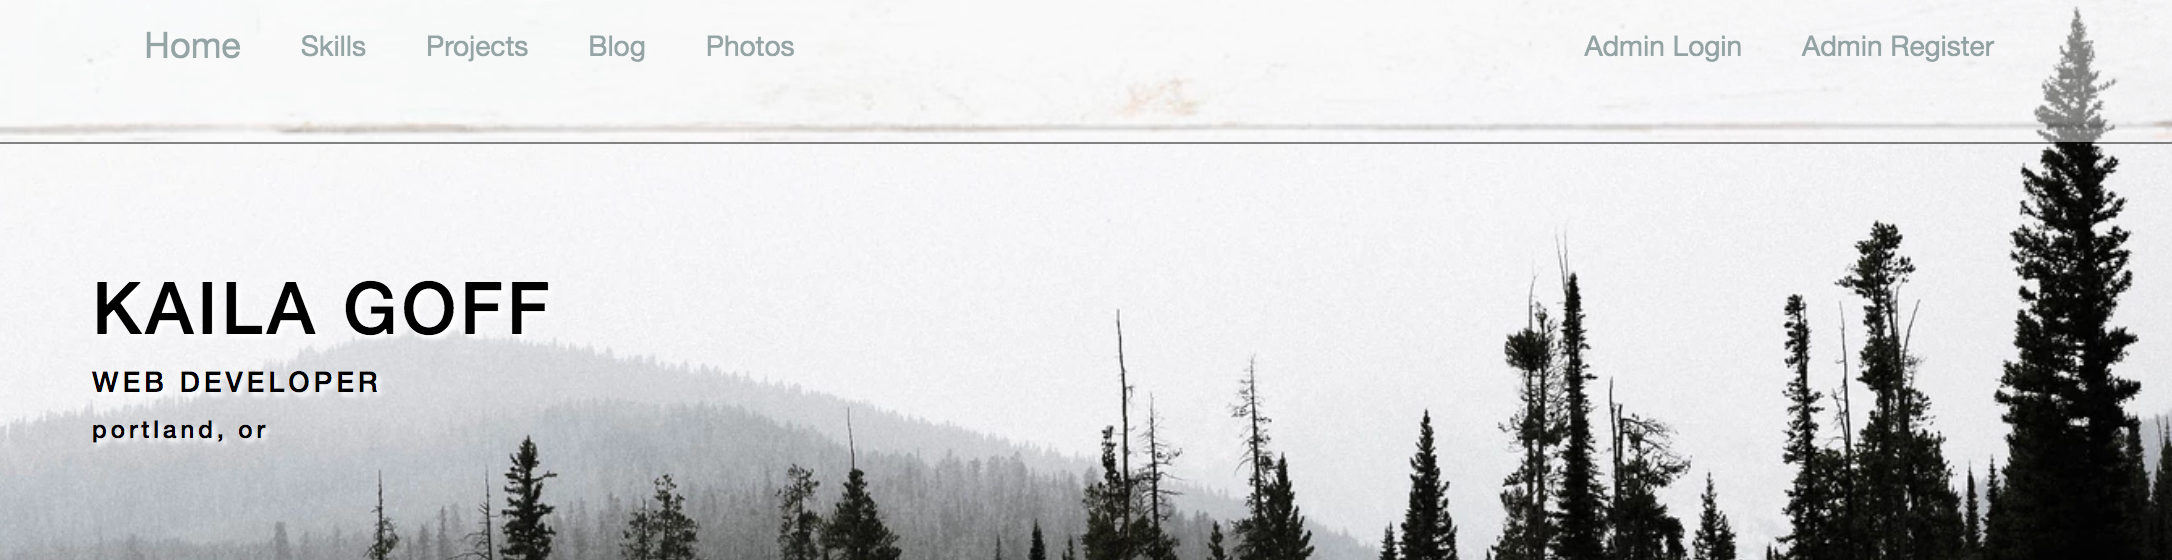
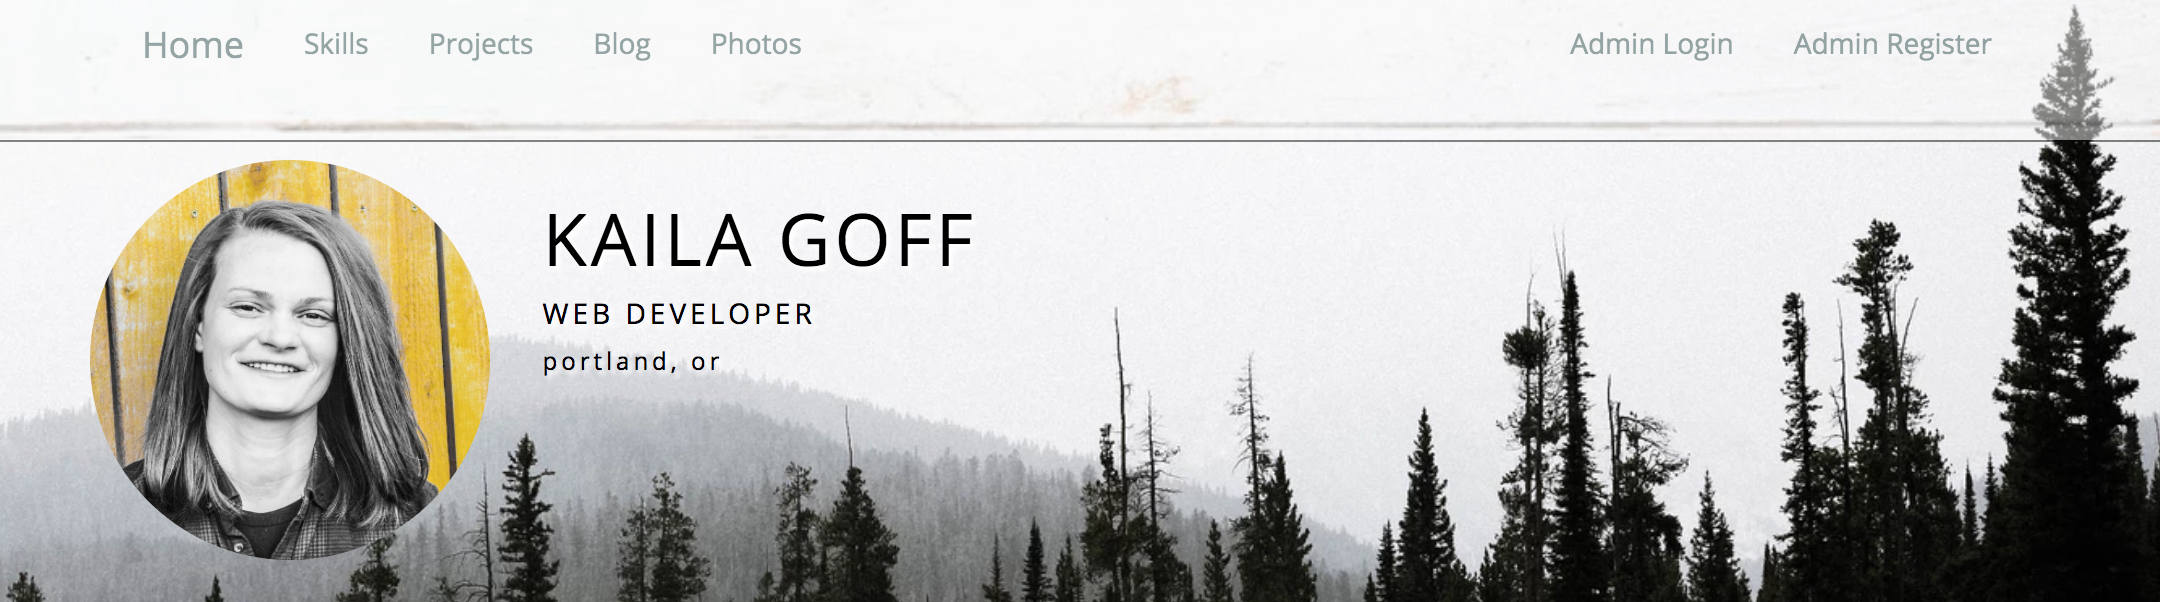
modify header on home page with image and styling

Changed region(s): [[0.0, 0.0, 1.0, 1.0], [0.2481, 0.3339, 0.4653, 0.4554], [0.062, 0.0607, 0.3722, 0.1214]]

diff --git a/app/assets/stylesheets/application.scss b/app/assets/stylesheets/application.scss
@@ -21,6 +21,7 @@ li {
   -o-background-size: cover;
   background-size: cover;
   opacity: .5;
+  font-family: 'Open Sans', sans-serif;
 }
 
 
@@ -29,7 +30,6 @@ li {
 #header {
   text-align: left;
   padding-left: 50px;
-  padding-bottom: 12px;
   background-image: url("https://images.unsplash.com/photo-1510267519236-48581949f65a?ixlib=rb-0.3.5&ixid=eyJhcHBfaWQiOjEyMDd9&s=10c553182f4cc69fb98bcbf02f54d28b&auto=format&fit=crop&w=1350&q=80");
   -webkit-background-size: cover;
   -moz-background-size: cover;
@@ -38,11 +38,21 @@ li {
   color: black;
   text-shadow: white 2px 2px 2px;
   background-repeat: no-repeat;
-  height: 290px;
+  height: 320px;
   margin-top: -150px;
   letter-spacing: 2px;
+  font-family: 'Open Sans', sans-serif;
+  font-style: normal;
+  font-weight: 300;
 }
 
+#header-row {
+  padding-top: 67px;
+}
+
+#text-col {
+  margin-left: -37px;
+}
 
 #register {
   text-align: center;
@@ -55,4 +65,23 @@ li {
 .forms {
   text-align: center;
   align-items: center;
+}
+
+//home
+#home-body {
+  text-align: center;
+  font-family: 'Open Sans', sans-serif;
+}
+
+#home-image {
+  text-align: center;
+}
+
+.img-circular{
+ width: 200px;
+ height: 200px;
+ background-size: cover;
+ border-radius: 100px;
+ -webkit-border-radius: 100px;
+ -moz-border-radius: 100px;
 }
